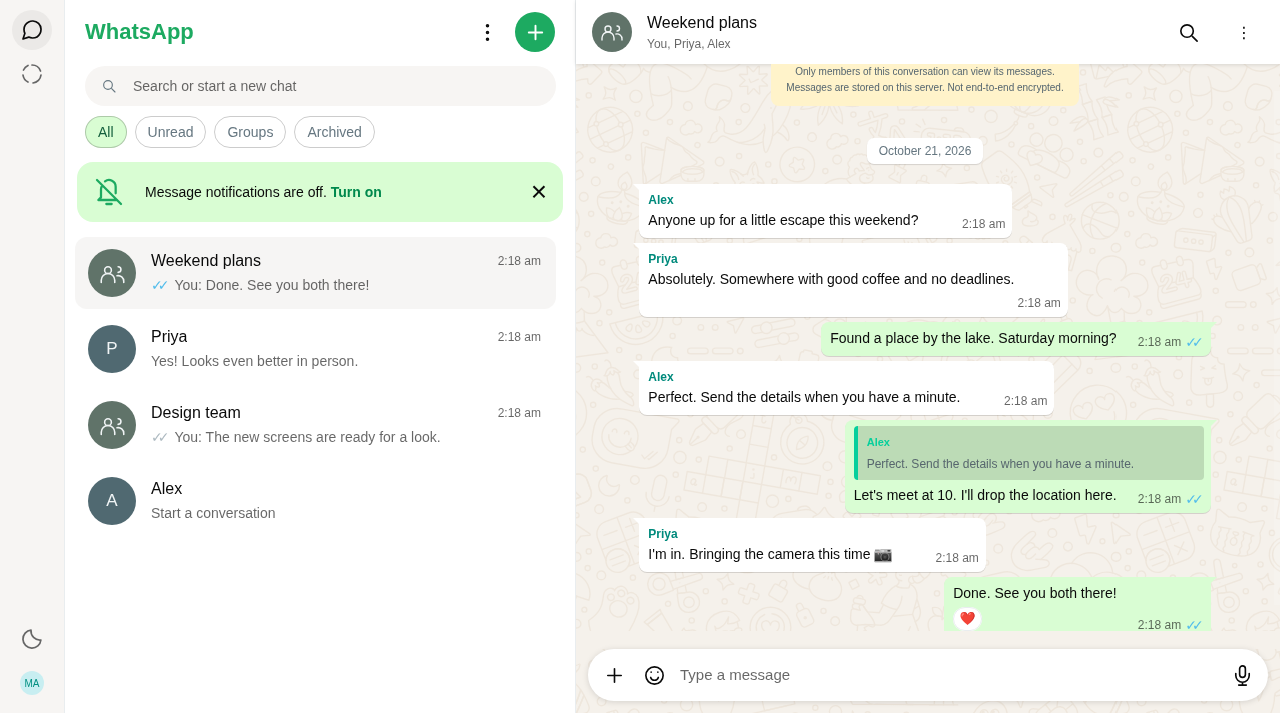
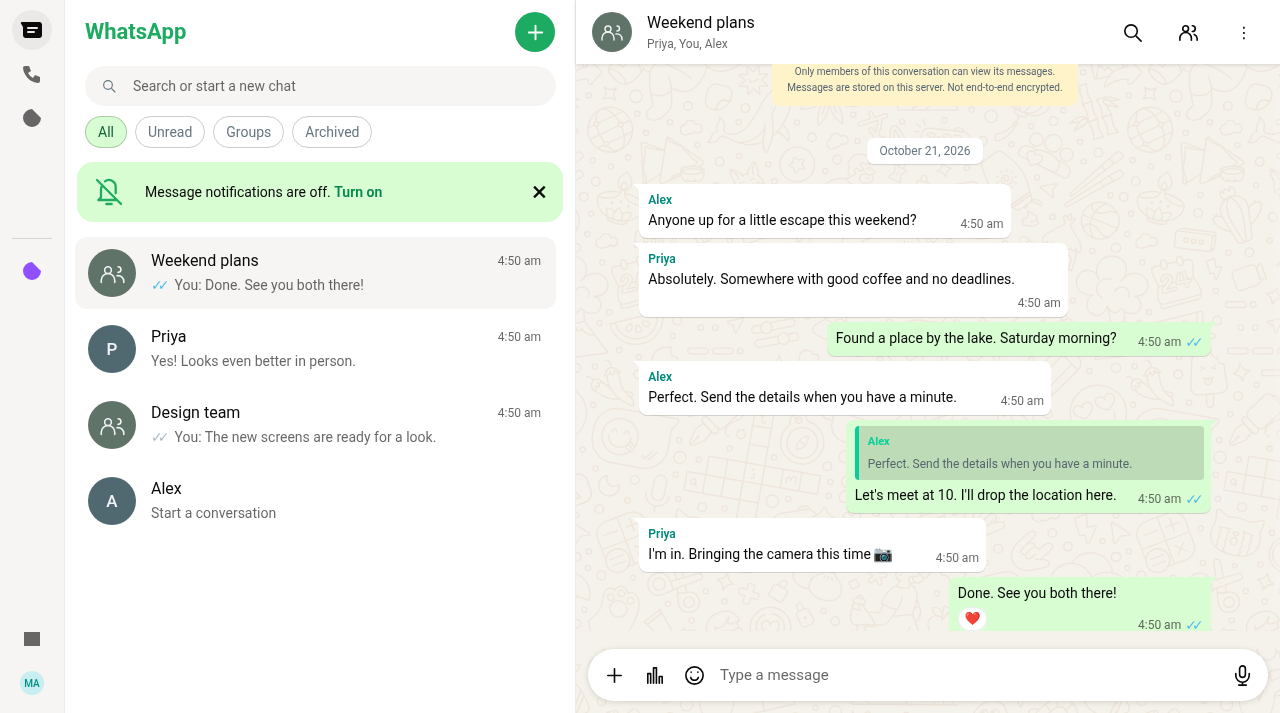
Refresh README screenshots from current build, add missing status/group-roles captures, and correct polls/app-lock status in docs
- docs/screenshots: desktop, mobile and mobile-list recaptured from the current
  UI (poll button, manage-group control, restored rail); add the status-media and
  group-roles captures the README table already referenced
- README/PARITY-CHECKLIST: group polls and app lock are implemented and covered
  by tests; remove polls from the not-implemented lists
- Verification: integration suite 21/21 green; browser suite 15/15 green at 7a0f1e4

diff --git a/README.md b/README.md
@@ -40,6 +40,7 @@ To try both sides of a conversation, open a second browser profile or an incogni
 | Delivery and read receipts | Quote replies, forwarding and stars  | Per-chat drafts across reloads   |
 | Online and last seen       | Delete for yourself or everyone      | Pin, mute and archive            |
 | Typing and unread counts   | Emoji and safe clickable links       | Right-click and touch menus      |
+| Group polls with live votes | App lock with the account password   | Unicode 17 emoji catalog         |
 | Full-history search        | Shared-media gallery                 | Profile pictures and about lines |
 | Membership-checked access  | Idempotent message retries           | Text/photo/video statuses (24h)  |
 
@@ -132,7 +133,7 @@ Double-click a message or swipe right to reply. Right-click or touch-and-hold fo
 
 ## Project status
 
-This is a tested development build, not a claim of exhaustive WhatsApp parity or a production security certification. Calls, end-to-end encryption, phone/SMS login, password recovery, closed-app push notifications, blocking/reporting, stickers, polls are not implemented. Statuses have author-only view receipts and timed pause/resume playback. Link cards show the URL host/path, not fetched thumbnails or page metadata.
+This is a tested development build, not a claim of exhaustive WhatsApp parity or a production security certification. Calls, end-to-end encryption, phone/SMS login, password recovery, closed-app push notifications, blocking/reporting and stickers are not implemented. Statuses have author-only view receipts and timed pause/resume playback. Link cards show the URL host/path, not fetched thumbnails or page metadata.
 
 Messages and media are readable by the server operator. The app needs HTTPS, registration/abuse policies, storage limits, retention/backup plans and a security review before public deployment. Use a single server process unless you add a shared Socket.IO adapter and storage. Real-device testing is still needed beyond Chrome's mobile viewport tests.
 

diff --git a/docs/PARITY-CHECKLIST.md b/docs/PARITY-CHECKLIST.md
@@ -13,6 +13,7 @@ This is a tracking document, not a claim that every WhatsApp feature is implemen
 - Per-chat draft recovery, links, full-history search and keyboard shortcuts.
 - Text/photo/video status validation, expiry, audience checks and owner deletion; profile editing/pictures and shared-media access.
 - Expiring/resettable/revocable group invite links with explicit authenticated joining.
+- Group polls with validated options and single-choice votes that sync live; app lock that survives refresh and wrong passwords.
 
 ## Implemented, requiring more reference/device checks
 
@@ -27,7 +28,7 @@ This is a tracking document, not a claim that every WhatsApp feature is implemen
 
 - Calls, end-to-end encryption, phone/SMS login and account recovery.
 
-- Stickers, polls and location sharing.
+- Stickers and location sharing.
 - Richer group permissions such as admin-only posting and join approvals.
 - Blocking/reporting, disappearing messages, scheduled messages or multi-device draft sync.
 - Downloaded webpage metadata/thumbnails for rich link previews.
